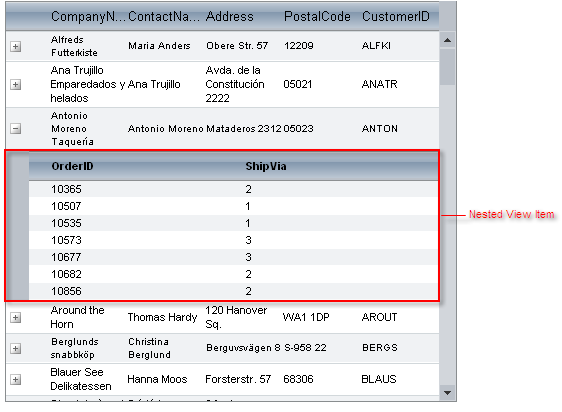
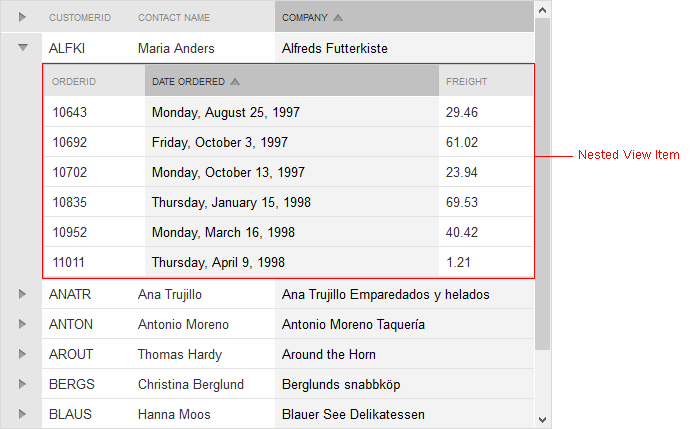
Fixed typos and changed images

diff --git a/controls/grid/performance/grid-performance-optimizations.md b/controls/grid/performance/grid-performance-optimizations.md
@@ -31,7 +31,7 @@ When you present large number of records at once you will see delays in the grid
 
 	* The maximum number of input controls allowed on the page can be 10 times greaterYou could check [this](http://demos.telerik.com/aspnet-ajax/input/examples/radinputmanager/dynamicinputfiltersettings/defaultcs.aspx?product=grid) online demo application for a sample code and performance overview.
 
-4. Use built-in/custom paging or virtual scrolling/paging and present only fixed setof records at a time - here are online examples for it: [Basic paging]( http://demos.telerik.com/aspnet-ajax/grid/examples/generalfeatures/paging/defaultcs.aspx	), [Virtual scrolling and paging]( http://demos.telerik.com/aspnet-ajax/grid/examples/client/virtualscrollpaging/defaultcs.aspx	). In case you have more than **100** records in a flat grid, it is recommended to turn on the build-in paging/custom paging of the grid.This will not only optimize the grid loading time but also will enrich the user experience, thus giving him/her the flexibility to easily navigate throughthe grid records.When you have a hierarchical grid, the best approach is to limit the items presented in each level at once to **10-15**at most (through the **PageSize** property of the **GridTableView** object).
+4. Use built-in/custom paging or virtual scrolling/paging and present only fixed setof records at a time - here are online examples for it: [Basic paging]( http://demos.telerik.com/aspnet-ajax/grid/examples/generalfeatures/paging/defaultcs.aspx	), [Virtual scrolling and paging]( http://demos.telerik.com/aspnet-ajax/grid/examples/client/virtualscrollpaging/defaultcs.aspx	). In case you have more than **100** records in a flat grid, it is recommended to turn on the build-in paging/custom paging of the grid.This will not only optimize the grid loading time but also will enrich the user experience, thus giving him/her the flexibility to easily navigate throughthe grid records.When you have a hierarchical grid, the best approach is to limit the items presented in each level at once to **10-15** at most (through the **PageSize** property of the **GridTableView** object).
 
 5. You could disable the ViewState of the control, this will reflect in less data transferred back and forth between the client and server. However,this optimization comes at cost ofsacrificing some functionality. You could check the lists of the functions that are not supported when the ViewState is disabled in [this]({%slug grid/performance/optimizing-viewstate-usage%}) help topic.Demo application that describes this functinoality could be found [here](http://demos.telerik.com/aspnet-ajax/grid/examples/programming/viewstate/defaultcs.aspx)
 

diff --git a/controls/grid/defining-structure/creating-a-radgrid-programmatically.md b/controls/grid/defining-structure/creating-a-radgrid-programmatically.md
@@ -371,7 +371,7 @@ You should follow these basic steps in order to create hierarchical **RadGrid** 
 
 4. Set the proper **ParentTableRelations** for the **GridTableViews** (along with their **MasterKeyField** and **DetailKeyField** attributes) and **DataKeyNames** for the **MasterTableView**/**GridTableViews** in the code-behind of the page.
 
-5. Assign data sources (through the * DataSourceID * attribute) for each table in the grid hierarchy.If you do not want to use declarative relations, generate the data in the **NeedDataSource**/**DetailTableDataBind** handlers of the grid. On **DetailTableDataBind** you can determine which data source should be related to the currently bound **GridTableView** by checking its **Name/DataSourceID** property. Here, the **Name** property must have a unique value for each detail table (this value has to be defined previously by the developer) and the **DataSourceID** is the ID of the **DataSource** control responsible for the corresponding detail table content generation.
+5. Assign data sources (through the *DataSourceID* attribute) for each table in the grid hierarchy.If you do not want to use declarative relations, generate the data in the **NeedDataSource**/**DetailTableDataBind** handlers of the grid. On **DetailTableDataBind** you can determine which data source should be related to the currently bound **GridTableView** by checking its **Name/DataSourceID** property. Here, the **Name** property must have a unique value for each detail table (this value has to be defined previously by the developer) and the **DataSourceID** is the ID of the **DataSource** control responsible for the corresponding detail table content generation.
 
 Here is a complete source code sample:
 

diff --git a/controls/grid/functionality/exporting/export-formats/pdf-export.md b/controls/grid/functionality/exporting/export-formats/pdf-export.md
@@ -24,11 +24,11 @@ This help article discuss different techniques which allow you to modify **RadGr
 
 * [Border support](#border-support)
 
-* [Fonts / Unicode support](#fonts-/-unicode-support)
+* [Fonts / Unicode support](#fonts--unicode-support)
 
 * [Exporting HTML tables](#exporting-html-tables)
 
-* [Exporting images / using third-party image-processing tools](#exporting-images-/-using-third-party-image-processing-tools)
+* [Exporting images / using third-party image-processing tools](#exporting-images--using-third-party-image-processing-tools)
 
 * [Resizing columns](#resizing-columns)
 
@@ -42,9 +42,9 @@ This help article discuss different techniques which allow you to modify **RadGr
 
 * [Content Encryption](#content-encryption)
 
-* [PDF Export Q & A](#pdf-export-q-&-a)
+* [PDF Export Q & A](#pdf-export-q--a)
 
-* [Unsupported features / scenarios](#unsupported-features-/-scenarios)
+* [Unsupported features / scenarios](#unsupported-features--scenarios)
 
 * [Exceptions](#exceptions)
 
